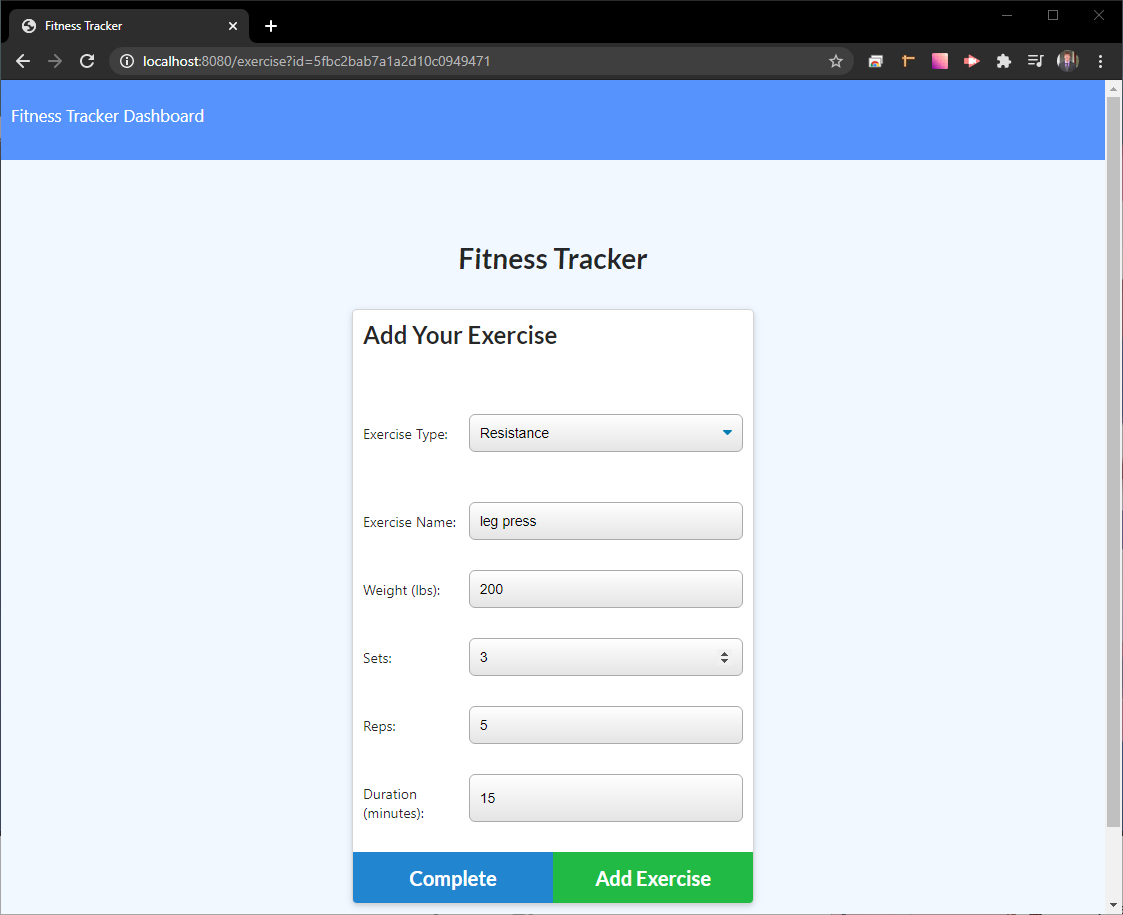
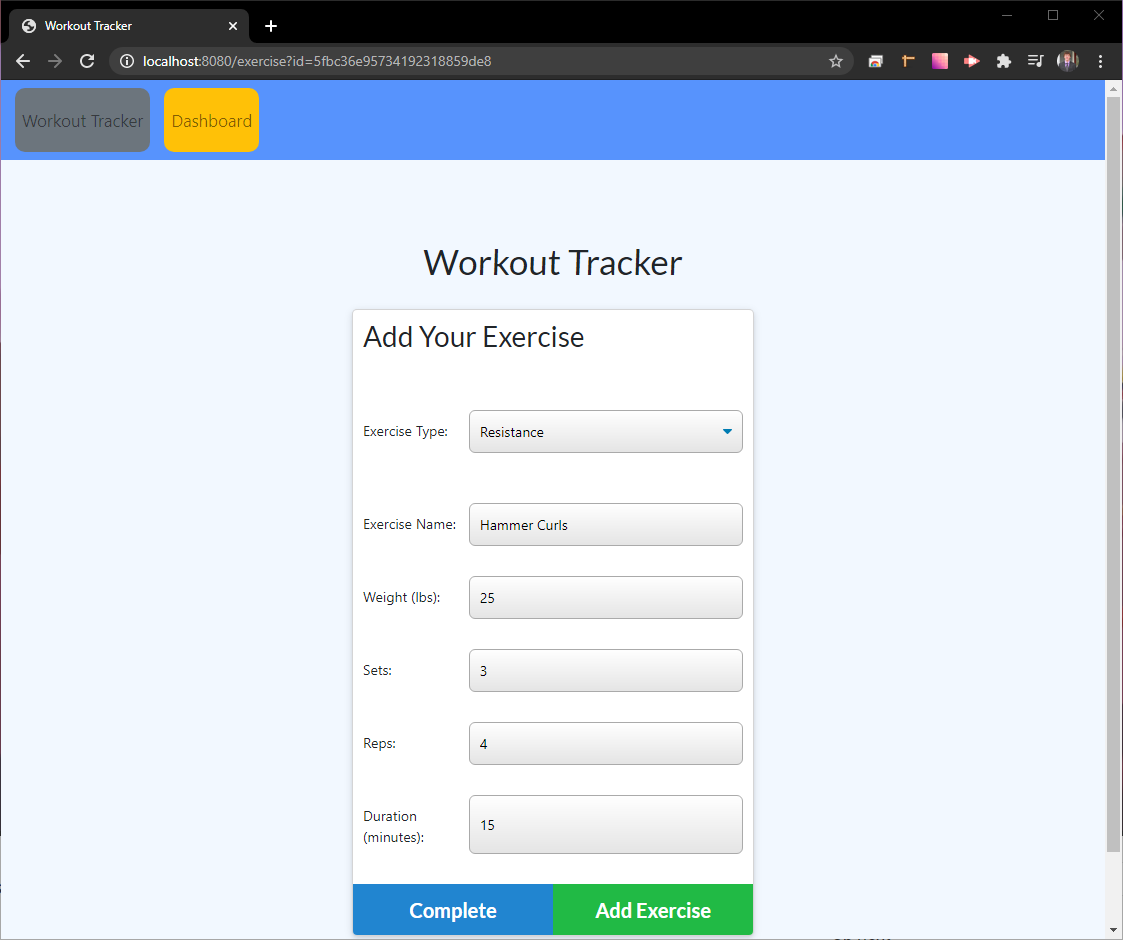
Added the updated Nav bar to each .html page, added more workout data to better populate the dashboard view

diff --git a/public/exercise.html b/public/exercise.html
@@ -7,17 +7,30 @@
   <meta http-equiv="X-UA-Compatible" content="ie=edge" />
   <link rel="stylesheet" href="https://cdnjs.cloudflare.com/ajax/libs/semantic-ui/2.4.1/semantic.min.css" />
   <link rel="stylesheet" href="style.css" />
-  <title>Fitness Tracker</title>
+  <link
+  rel="stylesheet"
+  href="https://stackpath.bootstrapcdn.com/bootstrap/4.3.1/css/bootstrap.min.css"
+  integrity="sha384-ggOyR0iXCbMQv3Xipma34MD+dH/1fQ784/j6cY/iJTQUOhcWr7x9JvoRxT2MZw1T"
+  crossorigin="anonymous"
+/>
+
+  <title>Workout Tracker</title>
 </head>
 
 <body>
-  <nav>
-    <a href="/">Fitness Tracker</a>
-    <a href="/stats">Dashboard</a>
-  </nav>
+  <nav class="navbar navbar-expand-lg navbar-light bg-blue">
+    <ul class="navbar-nav">
+      <li class="nav-item bg-secondary mr-2" style="border-radius: 10px">
+        <a class="nav-link" href="/">Workout Tracker</a>
+      </li>
+      <li class="nav-item bg-warning ml-2" style="border-radius: 10px">
+        <a class="nav-link" href="/stats">Dashboard</a>
+      </li>
+    </ul>
+</nav>
   <div class="wrapper">
     <header>
-      <h1>Fitness Tracker</h1>
+      <h1>Workout Tracker</h1>
     </header>
     <div class="ui container exercise">
       <div class="ui raised card m-auto">

diff --git a/public/stats.html b/public/stats.html
@@ -11,11 +11,15 @@
       integrity="sha384-ggOyR0iXCbMQv3Xipma34MD+dH/1fQ784/j6cY/iJTQUOhcWr7x9JvoRxT2MZw1T"
       crossorigin="anonymous"
     />
-    <title>Fitness Chart</title>
+    <title>Workout Chart</title>
   </head>
-  <nav>
-    <a href="/">Fitness Tracker</a>
-  </nav>
+  <nav class="navbar navbar-expand-lg navbar-light bg-blue">
+    <ul class="navbar-nav">
+      <li class="nav-item bg-secondary mr-2" style="border-radius: 10px">
+        <a class="nav-link" href="/">Workout Tracker</a>
+      </li>
+    </ul>
+</nav>
   <body>
     <div class="container mt">
       <h1 class="text-center">Workout Dashboard</h1>

diff --git a/public/index.html b/public/index.html
@@ -18,7 +18,6 @@
 
 <body>
   <nav class="navbar navbar-expand-lg navbar-light bg-blue">
-
       <ul class="navbar-nav">
         <li class="nav-item bg-secondary mr-2" style="border-radius: 10px">
           <a class="nav-link" href="/">Workout Tracker</a>
@@ -26,7 +25,6 @@
         <li class="nav-item bg-warning ml-2" style="border-radius: 10px">
           <a class="nav-link" href="/stats">Dashboard</a>
         </li>
-
       </ul>
   </nav>
 
